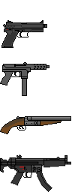
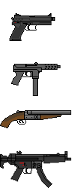
The gun aims to the mouse pointer

diff --git a/client/js/sprites/player.js b/client/js/sprites/player.js
@@ -51,6 +51,7 @@ function player(nickname,x,y,world,scene){
 	this.frame = 1;
 	this.dir = true;//the row to draw of tux.png
 	this.gun = 0;
+	this.rot = 0;//rotation of gun
 
 	this.draw = function(){
 		var x =  this.x + scene.map.x;
@@ -96,12 +97,14 @@ function player(nickname,x,y,world,scene){
 		}
 		ctx.drawImage(trollImg, 0, this.type, 64, 64, 0, 0, 64, 64);//draw face
 		//draw arm
+		ctx.translate(44,70);
+		this.dir?ctx.rotate(Math.PI-this.rot):ctx.rotate(this.rot);
 		ctx.lineWidth = 3;
 		ctx.beginPath();
-		ctx.moveTo(44,70);
-		ctx.lineTo(64,76);
+		ctx.moveTo(0,0);
+		ctx.lineTo(20,0);
 		ctx.stroke();
-		ctx.drawImage(gunsImg, 0, this.gun*64, 72, 48, 60, 45, 62, 48);//draw gun
+		ctx.drawImage(gunsImg, 0, this.gun*48, 72, 48, 4, -25, 72, 48);//draw gun
 		ctx.restore();//restore canvas setting
 		
 	};

diff --git a/client/js/main.js b/client/js/main.js
@@ -78,7 +78,12 @@ function onMainClick(e){
     var tmpY = (e.pageY - c.offsetTop)*scale;
     game.mouseDown(tmpX,tmpY);
 }
+var mouse = {"x":1280,"y":360};
+function onMouseMove(e){
+    mouse.x = (e.pageX - c.offsetLeft)*scale;
+    mouse.y = (e.pageY - c.offsetTop)*scale;
 
+}
 var keyDown = function(event){
     var keycode = event.charCode || event.keyCode;
     game.keyDown(keycode);
@@ -97,6 +102,7 @@ function init(){
         document.getElementById("bup").style.display = 'block';
 	}else{
 		c.addEventListener("click", onMainClick, false);
+        document.body.addEventListener("mousemove", onMouseMove, false);
 	}
     //gameInterval = self.setInterval(function(){mainLoop();},1000/60);//call mainGameLoop() every 16 ms
     mainLoop();

diff --git a/client/js/scenes/game/gameRoom.js b/client/js/scenes/game/gameRoom.js
@@ -51,7 +51,10 @@ var gameRoom = new function(){
         gameRoom.lastTime = new Date().getTime();
         gameRoom.time += gameRoom.dt;
         
-		this.players.loop();//move circle
+        //rotate gun
+        this.player.rot = Math.atan2(mouse.x-(this.player.x + this.map.x),(this.player.y + this.map.y)-mouse.y)-Math.PI/2;
+
+		this.players.loop();//move players
         this.checkView();
     };
     this.draw = function(){
